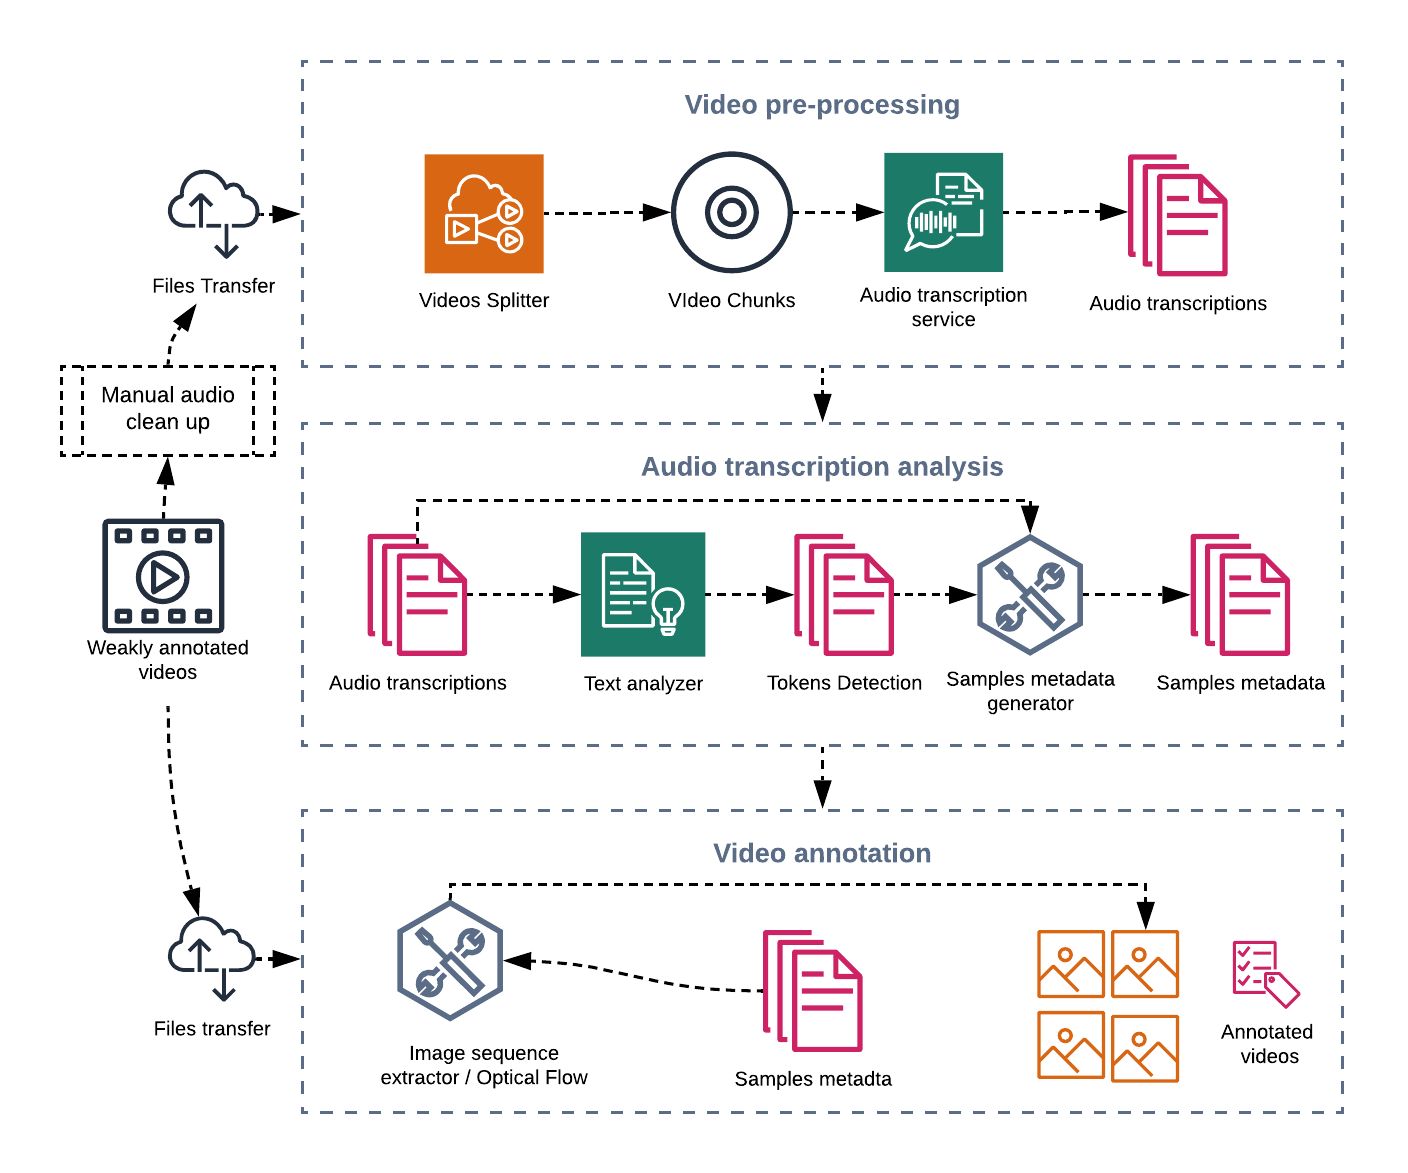
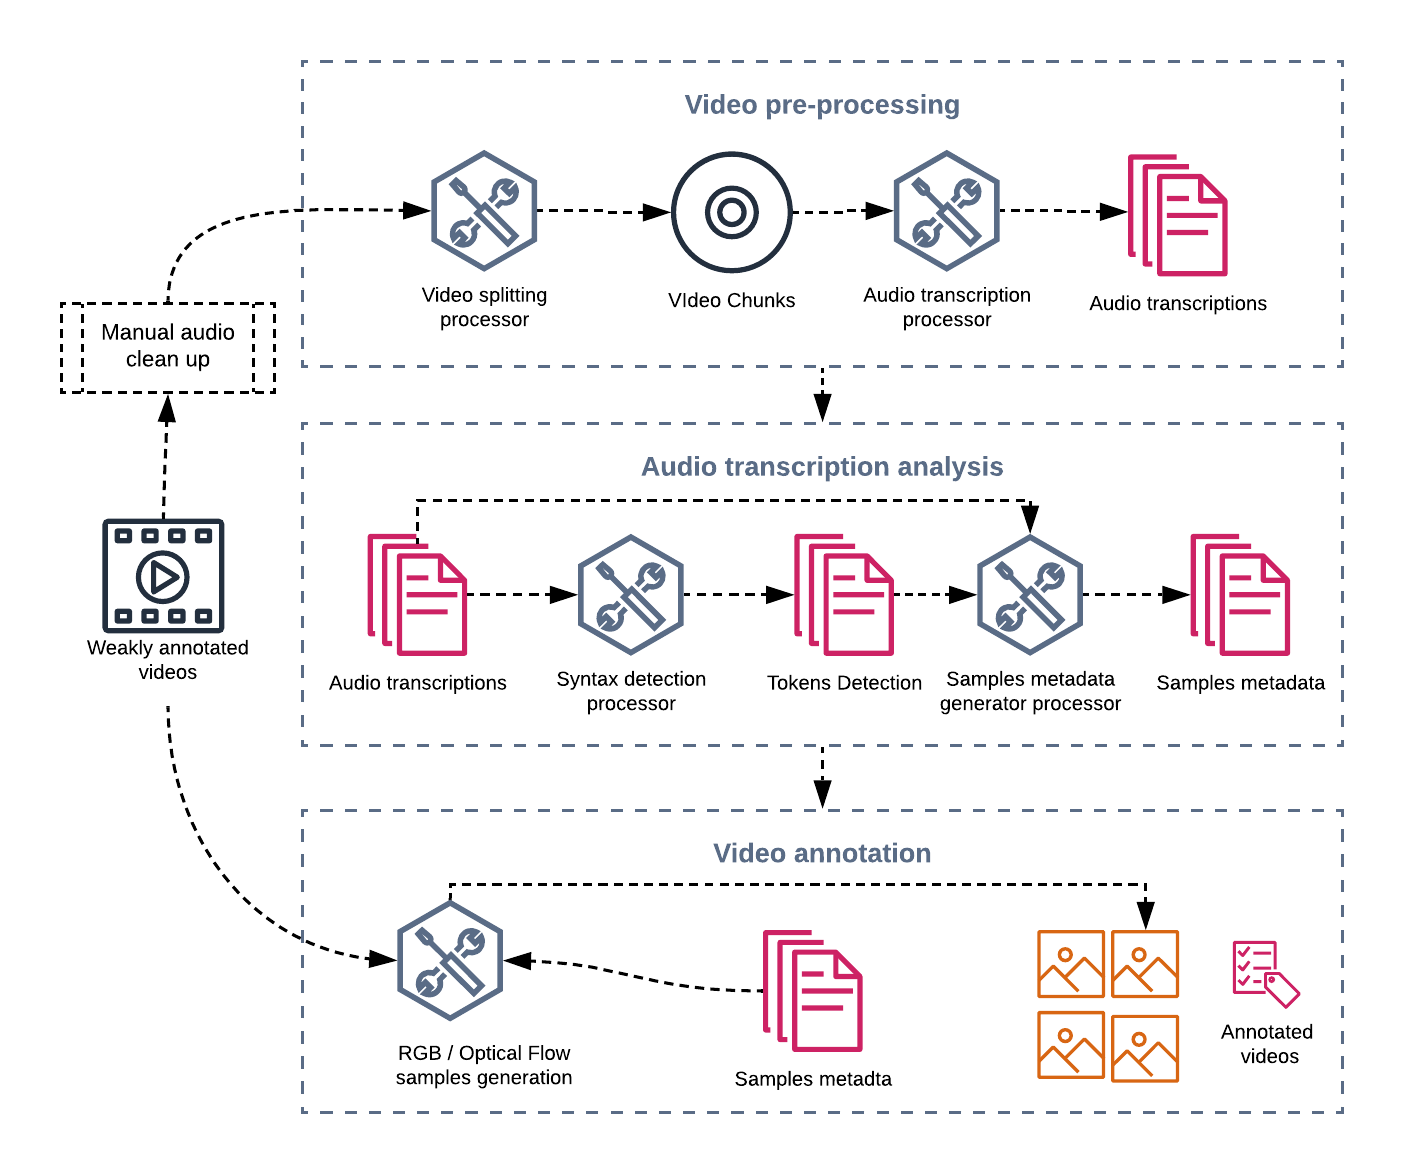
adding a new section for Video Annotation method on the article

diff --git a/article/article-tesis.tex b/article/article-tesis.tex
@@ -71,24 +71,8 @@ Human action recognition is a extensively studied field, action recognition data
 \textbf{Bag of Words (BoW)} or \textbf{Bag of Visual Words (BoVW)} based on natural language processing techniques is one of the simplest and oldest local descriptor encoding strategies. In its simplest form, it consists of (i) clustering with k-means a collection of descriptor vectors from the training set to build so-called visual vocabulary, (ii) as signing each descriptor to its nearest cluster center from the visual dictionary, and (iii) aggregating the one-hot assignment vectors via average pooling \cite{wang2019hallucinating}, when applied to Computer Vision is a technique used to create images representations or features vectors used that can be learned by CNNs, resulting on improved images classification and video classification. 
 Feature trajectory detection are much improved using statistical methods like \textbf{Fisher Vectors} obtaining better results over traditional BoW \textbf{Fussing parallel CNN.}, the Bag of Visual Words representation suffers from sparsity and high dimensionality, in the other hand representations obtained using the Fisher Vectors kernel are more compact and dense which results on better results on image and video classification problems.
 \section{Method}\label{method}
-\section{Experimentation}\label{experimentation}
-\subsection{Dataset Description \cite{lsp_dataset}}\label{datasetdesc}
-The PSL dataset was developed by the PUCP Grammar and Signs research group in 2014 and consists in a set of videos recorded during the interviews of 24 individuals, 12 male and 12 female informants, all of them are Lima Peru residents and reported to be borne with a permanent deafness condition or acquired the condition before the acquisition of Spanish. 
-
-The dataset consists in 718 video clips recorded with a ADR-CX220 SONY HD camera which included an embedded microphone. The camera focused only the informant but also recorded questions, instructions and translations.
-
-The video clips were recorded in three sessions with the following participants: A coordinator, a PSL \cite{lsp_2015} translator and a informant.\\
-
-\textbf{Recording Session 1}: A 45-60 minutes semi structured interview that included: Biographic information as well as habits, anecdotes, opinion about cultural subjects and elicitation of names, states and actions. 
-
-\textbf{Recording Session 2}: The informant was presented with a set of 55 cards describing actions and were asked to choose a set of them in order to build a coherent story that was subsequently told by the informant.
-
-\textbf{Recording Session 3}: A PSL \cite{lsp_2015} conversation facilitated by the coordinator happening between the informant and the translator.\\
-
-During all the sessions a PSL \cite{lsp_2015} translator performs a translation after a word or phrase is completed.
-
 \subsection{Video Annotation}\label{videoannot}
-The PSL dataset is weakly annotated because there is no a direct relation between the instant when a sign is emitted and when its translation to Spanish is delivered, nSDm proposes a semi automatic video annotation pipeline described in Figure \ref{fig:video-annotation-pipeline} for cleaning, pre-processing and analyzing PSL videos in order to produce an annotated PSL dataset that can be used for training the nSDm model using supervised learning. The pipeline is described in detail in \ref{manual-video-cleanup}, \ref{video-pre-processing}, \ref{audio-transcription-analysis} and \ref{samples-generation}
+The PSL dataset is weakly annotated because there is not a direct relation between the instant when a sign is emitted and when its translation to Spanish is delivered, nSDm proposes a semi automatic video annotation pipeline described in Figure \ref{fig:video-annotation-pipeline} for cleaning, pre-processing and analyzing PSL videos in order to produce an annotated PSL dataset that can be used for training the nSDm model using supervised learning. The pipeline is described in detail in \ref{manual-video-cleanup}, \ref{video-pre-processing}, \ref{audio-transcription-analysis} and \ref{samples-generation}
 
 \begin{figure}[hbt!]
 \includegraphics[width=\linewidth]{images/video-annotation-pipeline.png}
@@ -96,14 +80,18 @@ The PSL dataset is weakly annotated because there is no a direct relation betwee
 \label{fig:video-annotation-pipeline}
 \end{figure}
 
-\subsubsection{Manual Video Clean Up}\label{manual-video-cleanup}
-The PSL recordings contain a considerable amount of noise introduced during the recording sessions, it makes difficult to find video intervals that clearly show a relation between signs emitted by the informant and the translation delivered by the translator, the noise factors are listed in the following list:
+\subsubsection{Manual Automatic Video Clean Up}\label{manual-video-cleanup}
+The PSL recordings described on \ref{datasetdesc} contain a considerable amount of noise introduced during the recording sessions which makes difficult to easily find video intervals that clearly show a relation between signs emitted by the informant and the translation delivered by the translator, the noise factors are listed in the following list:
 \begin{itemize}
 	\item Multiple participants speaking during the session.
-	\item Conversations between participants that are not relevant to emitted sings
-	\item High frequency of silent periods 
+	\item Conversations between participants that are not relevant to emitted sings.
+	\item High frequency of silent periods.
 \end{itemize}
-A manual video cleanup process is required to find noise free video segments (table \ref{table:noise-free-video-segments} lists a noise free video segments), it is a long process that required watching all the videos available in the PSL dataset and manually writing in a database when an informant started emitting signs and when the translator finished delivering a translation.
+A manual video cleanup process is required to find noise free video intervals, it is a manual process that requires watching all the videos available in the PSL dataset and manually annotating the instant when an informant started emitting sings and the instant when the translator completed delivering a translation, table \ref{table:noise-free-video-segments} shows an annotation example. 
+
+The recordings show the informant in two alignments (centered and left), the manual video clean up process also stores the informant alignment, table \ref{table:informant-alignment} shows the two available alignments, we use the alignment annotation later in the process during the video frames extraction to create the PSL annotated dataset.
+
+% Noise free video segment extract table
 \begin{table}[!htb]
 \captionsetup{font=footnotesize}
 \centering
@@ -113,6 +101,11 @@ A manual video cleanup process is required to find noise free video segments (ta
 	\multicolumn{1}{c}{\textbf{Start}} &
 	\multicolumn{1}{c}{\textbf{End}} &
 	\multicolumn{1}{c}{\textbf{Alignment}}\\
+\midrule
+\multirow{5}{7.5em}{\textbf{consultant-01-session-01-part-01.mp4}} & 00:30 & 00:55 & center\\
+& 01:15 & 01:29 & center\\
+& 00:53 & 01:07 & center\\
+& 08:12 & 09:01 & center\\
 \midrule
 \multirow{5}{7.5em}{\textbf{consultant-02-session-01-part-01.mp4}} & 00:15 & 00:21 & center\\
 & 00:15 & 00:21 & center\\
@@ -124,7 +117,8 @@ A manual video cleanup process is required to find noise free video segments (ta
 \captionsetup{font=footnotesize}
 \caption{Noise free video segments extract} \label{table:noise-free-video-segments}
 \end{table}
-The recordings show the informant in two alignments (centered and left), the manual video clean up process also stores the informant alignment, table \ref{table:informant-alignment} shows the two available alignments, we use the alignment annotation later in the process during the video frames extraction to create the PSL annotated dataset.
+
+% Informat aligment
 \begin{table}[!htb]
 \captionsetup{font=footnotesize}
 \centering
@@ -140,7 +134,13 @@ The recordings show the informant in two alignments (centered and left), the man
 \end{table}
 
 \subsubsection{Video Pre-Processing}\label{video-pre-processing}
-\subsubsection{Audio Transcription and Text Analysis}\label{audio-transcription-analysis}
+Weakly PSL annotated videos require processing before any metadata can be extracted, we propose a sequence of pre-processing tasks that take advantage of the annotation generated on \ref{manual-video-cleanup}. A \textbf{video splitting processor} generates a set of video chunks using the \textit{ffmpeg} multimedia framework and stores the produced chunks in Amazon S3 for later usage. The audio within the video chunks is then transcribed by an \textbf{audio transcription processor}, using the Amazon Transcription service, we selected the Amazon Transcription service because it provides an accurate mapping between audio participants and transcribed words along with useful metadata that describes the start and end time when words are pronounced. 
+
+At the moment of writing this work Amazon Transcription service only supported Spanish for Spain and the US, it caused certain words that are specific for Peruvian Spanish not being fully recognized, in order to improve transcription accuracy we provided a custom vocabulary containing Peruvian expressions which improved  Peruvian words recognition, for the matters of this work unrecognized Peruvian words were omitted and not processed.
+
+\subsubsection{Audio Transcription Analysis}\label{audio-transcription-analysis}
+Audio transcription requires additional processing in order to produce useful information that leads to a successful PSL signs detection. Bag of Embedding Words (BoEW) is a widely used technique on Natural Language Processing tasks providing a easy and flexible way to list the most relevant words based on frequency. This work is focused on detecting nouns and numbers (nSDm is a ongoing method that will be progressively improved to handle a wider set of PSL elements) assuming that nouns (numbers are a subset of nouns) suffer less variations in spoken Spanish than verbs, pronouns, adverbs and adjectives, and provide more semantic value than conjunctions, prepositions and interjections. 
+
 \begin{table}[!htb]
 \captionsetup{size=footnotesize}
 \begin{tabular}{ p{16em} c}
@@ -148,27 +148,39 @@ The recordings show the informant in two alignments (centered and left), the man
 \multicolumn{1}{c}{\textbf{Token}} & 
 	\multicolumn{1}{c}{\textbf{Frequency}}\\
 \midrule
-\textbf{pareja}&	4\\
-\textbf{cosas}&	3\\
-\textbf{cine}&	2\\
-\textbf{noche}&	2\\
-\textbf{terror}&	1\\
-\textbf{parque}&	1\\
-\textbf{casa}&	1\\
-\textbf{montón}&	1\\
-\textbf{apariciones}&	1\\
-\textbf{fantasmas}&	1\\
-\textbf{dos}&	1\\
+\textbf{pareja}&	40\\
+\textbf{cosas}&	30\\
+\textbf{cine}&	20\\
+\textbf{noche}&	20\\
+\textbf{terror}&	10\\
+\textbf{parque}&	10\\
+\textbf{casa}&	10\\
+\textbf{montón}&	10\\
+\textbf{apariciones}&	10\\
+\textbf{fantasmas}&	10\\
+\textbf{dos}&	10\\
 \bottomrule
 \end{tabular}
 \caption{Most relevant tokens detection frequency in the PSL dataset} \label{tab:token-freq}
 \end{table}
 
+We used Amazon comprehend for text analysis, specifically the syntax detection functionality which will provide a comprehensive list of detected language elements along with a score from 0.0 to 1.0 indicating the detection accuracy, we have selected the ones that have at least a 0.8 accuracy score and omitted the rest, this process was automated using a \textbf{transcription detection processor} which uses BoEW to provide a list of most relevant nouns and numbers based on appearance frequency. Table \ref{tab:token-freq} shows a list of nouns and numbers and their frequencies in the PSL dataset.
+
+Once a weighted list of nouns and numbers is generated a mapping showing when nouns and numbers appear in videos is required, moving forward called \textbf{Samples Metadata}. Table \ref{tab:token-video-mapping} shows mapping metadata extracted from PSL.
+
+\subsubsection{Samples Generation}\label{samples-generation} 
+nSDm requires PSL elements to be represented as a set of RGB frames and a calculated Optical Flow using the Lucas-Kanade method, both representations are inputs of two different models as presented on \ref{nsdm}.
+
+\textbf{Translation Delay Factor: } The difference in time between the instant when a sign is emitted and when a translation for that given sign is delivered is uncertain, we are calling that uncertainty as the \textit{translation delay factor} which we are trying to approximate using a constant value, we have chosen a 3 seconds translation delay factor assuming that most of the translations will occur between three seconds after a sign is emitted.
+
+A \textbf{RGB Samples generation processor} uses samples metadata in combination with the translation delay factor to determine frames that represent a given PSL element. We use \textit{OpenCV} to extract frames and store them following a hierarchical folder structure (listing \ref{list:rgb-samples-folders}) that nSDm data loaders will use to feed data into the RGM branch on the nSDm model architecture during training and testing.
+
+A \textbf{Optical Flow Samples generation processor} uses video frames and the hierarchical folder structure generated by the RGM samples generation processor to calculate an Optical Flow representation for PSL elements and store them in a hierarchical folder structure that will also used by the nSDm data loaders to feed the optical flow branch on the nSDm model architecture during training and testing. We selected optical flow as a samples generation strategy because its ability to represent movement traces from previous frames, it is particular useful for representing PSL elements, a PSL element is composed on different body movements including: elbow, arms, neck, eyes, shoulders and hands, which are performed quickly, a way to detect movement traces between frames allows to generate a single image representation of all movement involved on a sign emitting (Figure \ref{fig:opticalflow-two}). 
+
 \begin{table}[!htb]
 \captionsetup{font=footnotesize}
 \centering
 \begin{tabular}{ l p{10em} r r }
-%\resizebox{\textwidth}{!}{\begin{tabular}{ llrr }
 \toprule
 \multicolumn{1}{c}{\textbf{Token}} & 
 	\multicolumn{1}{c}{\textbf{Video}} &
@@ -189,9 +201,83 @@ The recordings show the informant in two alignments (centered and left), the man
 \end{tabular}
 %\end{tabular}}
 \caption{Shows metadata extacted from the PSL dataset: (1)\textit{Token} could be a noun or a number (2)\textit{Video Path} shows the video where the token was detected (3)\textit{Start Time} time when the token reproduction starts (4)\textit{End Time} time when the token reproduction ends.}
+\label{tab:token-video-mapping}
 \end{table}
 
-\subsubsection{Samples Generation}\label{samples-generation} 
+\subsection{Novel Signs Detection Method (nSDm)}\label{nsdm}
+\subsubsection{Architecture}\label{nsdm-architecture}
+\begin{figure}[hbt!]
+\includegraphics[width=\linewidth]{images/network-architecture.png}
+\caption{nSDm network architecture}
+\label{fig:opticalflow-two}
+\end{figure}
+\subsection{New Videos Testing}
+
+\section{Experimentation}\label{experimentation}
+\subsection{Dataset Description \cite{lsp_dataset}}\label{datasetdesc}
+The PSL dataset was developed by the PUCP Grammar and Signs research group in 2014 and consists in a set of videos recorded during the interviews of 24 individuals, 12 male and 12 female informants, all of them are Lima Peru residents and reported to be borne with a permanent deafness condition or acquired the condition before the acquisition of Spanish. 
+
+The dataset consists in 718 video clips recorded with a ADR-CX220 SONY HD camera which included an embedded microphone. The camera focused only the informant but also recorded questions, instructions and translations.
+
+The video clips were recorded in three sessions with the following participants: A coordinator, a PSL \cite{lsp_2015} translator and a informant.\\
+
+\textbf{Recording Session 1}: A 45-60 minutes semi structured interview that included: Biographic information as well as habits, anecdotes, opinion about cultural subjects and elicitation of names, states and actions. 
+
+\textbf{Recording Session 2}: The informant was presented with a set of 55 cards describing actions and were asked to choose a set of them in order to build a coherent story that was subsequently told by the informant.
+
+\textbf{Recording Session 3}: A PSL \cite{lsp_2015} conversation facilitated by the coordinator happening between the informant and the translator.\\
+
+During all the sessions a PSL \cite{lsp_2015} translator performs a translation after a word or phrase is completed.
+
+\subsection{Video Annotation Results}
+The video annotation pipeline described on \ref{videoannot} produced an annotated PSL dataset suitable for using it in a supervised learning experiment. The annotated dataset is divided in two main parts (RGB and Optical Flow samples)
+
+\textbf{RGB Samples folder structure} is a hierarchical folder structure where each detected noun or number is represented as a first level folder, all instances of a detected sign received an identifier which is an auto incremental integer, detected instances represent the second level folders, detected signs video represent the third level, Figure \ref{fig:rgb-two}.
+\begin{lstlisting}[caption=RGB Samples Folder Structure example, basicstyle=\ttfamily\small]
+L1:dos
+	L2:1
+		L3:rgb-frame01.jpg
+		L3:rgb-frame02.jpg
+		L3:rgb-frame03.jpg
+		...
+		L3:rgb-frame08.jpg
+L1:cine
+	L2:1
+		L3:rgb-frame01.jpg
+		L3:rgb-frame02.jpg
+		L3:rgb-frame03.jpg
+		...
+		L3:rgb-frame15.jpg
+	L2:2
+		L3:rgb-frame01.jpg
+		L3:rgb-frame02.jpg
+		L3:rgb-frame03.jpg
+		...
+		L3:rgb-frame11.jpg
+\end{lstlisting}\label{list:rgb-samples-folders}
+
+\begin{figure}[hbt!]
+\includegraphics[width=\linewidth]{images/dos-rgb-frames.png}
+\caption{PSL number "Two" RGB representation}
+\label{fig:rgb-two}
+\end{figure}
+
+\textbf{Optical Flow samples folder structure} is a hierarchical folder structure based on the RGB samples folder structure, it is a more simple based on two levels instead of three, the nature of Optical Flow of tracing movement between frames allow to produce a single image for each detected PSL element instance (listing \ref{list:opticalflow-samples-folders}), Figure \ref{fig:opticalflow-two} shows an example of an optical flow generated sample
+\begin{lstlisting}[caption=Optical Flow Samples Folder Structure example, basicstyle=\ttfamily\small]
+L1:dos
+	L2:oflow-dos-01.jpg
+L1:cine
+	L2:oflow-cine-01.jpg
+	L2:oflow-cine-02.jpg
+\end{lstlisting}\label{list:opticalflow-samples-folders}
+\begin{figure}[hbt!]
+\includegraphics[width=\linewidth]{images/dos-opticalflow.jpg}
+\caption{PSL number "Two" OpticalFlow representation}
+\label{fig:opticalflow-two}
+\end{figure}
+
+\subsection{nSDm results}
+
 \section{Conclusion}\label{conclusion}
 
 \bibliographystyle{ieeetr}

diff --git a/src/main/pre-processing/video/opticalflow_handler.py b/src/main/pre-processing/video/opticalflow_handler.py
@@ -26,7 +26,7 @@ class OpticalFlowHandler(Handler):
         color = [255, 0, 128]
 
         frame_index = 1
-        no_frames = len([name for name in os.listdir(rgb_sample_folder_path)])
+        no_frames = len([name for name in os.listdir(rgb_sample_folder_path) if name != '.DS_Store'])
         frame_file_name = os.path.join(rgb_sample_folder_path, 'frame' + str(frame_index) + '.jpg')
 
         # Take first frame and find corners in it
